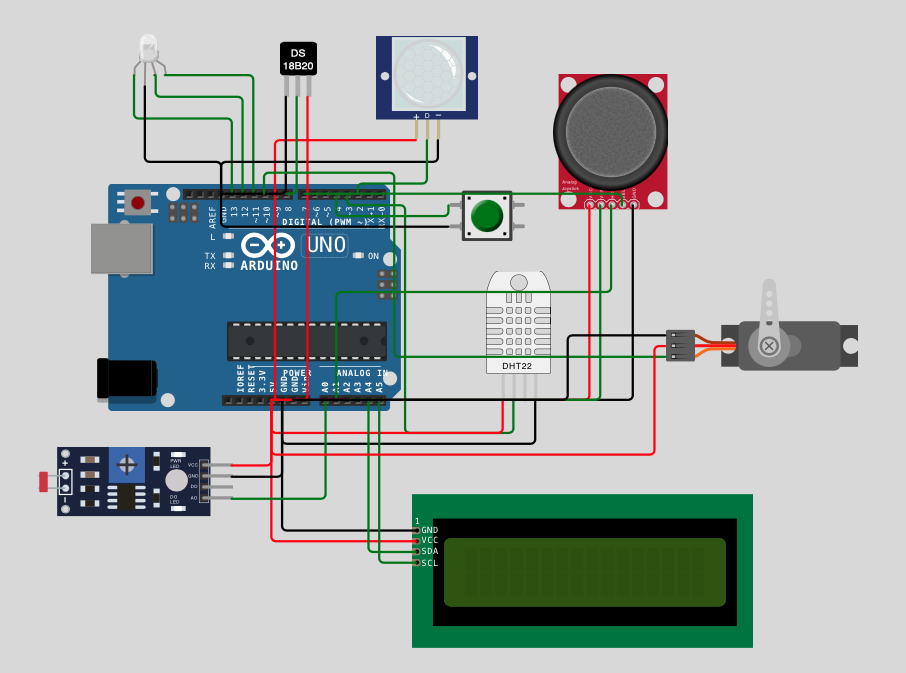
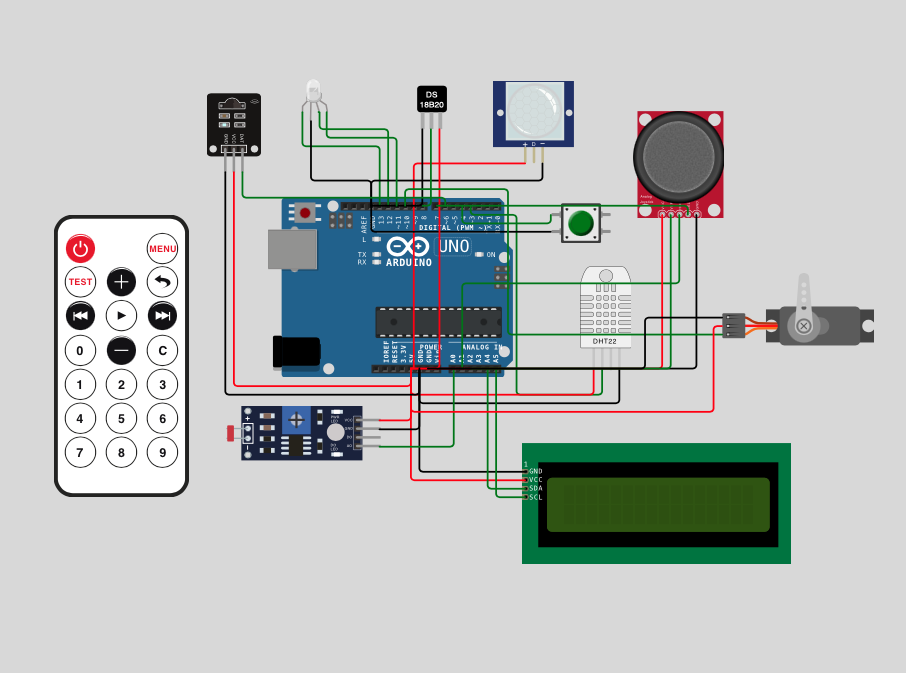
Actualizacion de enlaces e inclusion de la seccion Snippets

diff --git a/README.md b/README.md
@@ -24,6 +24,22 @@ En la carpeta [code](code "codigo") se encuentra el archivo .ino con el código 
 
 ## Pruebas de Validación
 ### Simulación de wokwi
-Si se pincha en este [enlace](https://wokwi.com/projects/399113513141451777 "wokwi") se dirigirá la simulación del circuito en la plataforma Wokwi.
+Si se pincha en este [enlace](https://wokwi.com/projects/400202610798134273 "wokwi") se dirigirá la simulación del circuito en la plataforma Wokwi.
 ### Pruebas con el circuito
-En este [enlace](https://drive.google.com/file/d/1DF55QCHDk_aXHT-DhjxNFKwE1j-dMLz1/view?usp=drive_link "Video") se encuentra un video que muestra el funcionamiento de la actividad realizada por este grupo.
+En este [enlace](https://drive.google.com/file/d/13qZfG0QAxgeHiCLZxAjfVpgD4lqHaW6A/view?usp=drive_link "Video") se encuentra un video que muestra el funcionamiento de la actividad realizada por este grupo.
+
+## Snippets
+
+En este apartado se muestran algunas partes del código que facilitan el entendimiento del mismo.
+
+### Entrada y salida difursa
+En la imagen inferior se puede observar el conjunto de entrada y salida para la lógica difusa.
+![Entrada y salida difusa](img/Entrada_y_salida_difusa.png)
+
+### Definción del botón
+En la imagen inferior se puede observar la función que maneja el control del botón.
+![Boton](img/Boton.png)
+
+### Definción del mando
+En la imagen inferior se puede observar la función que maneja el control del mando.
+![Mando](img/Mando.png)
